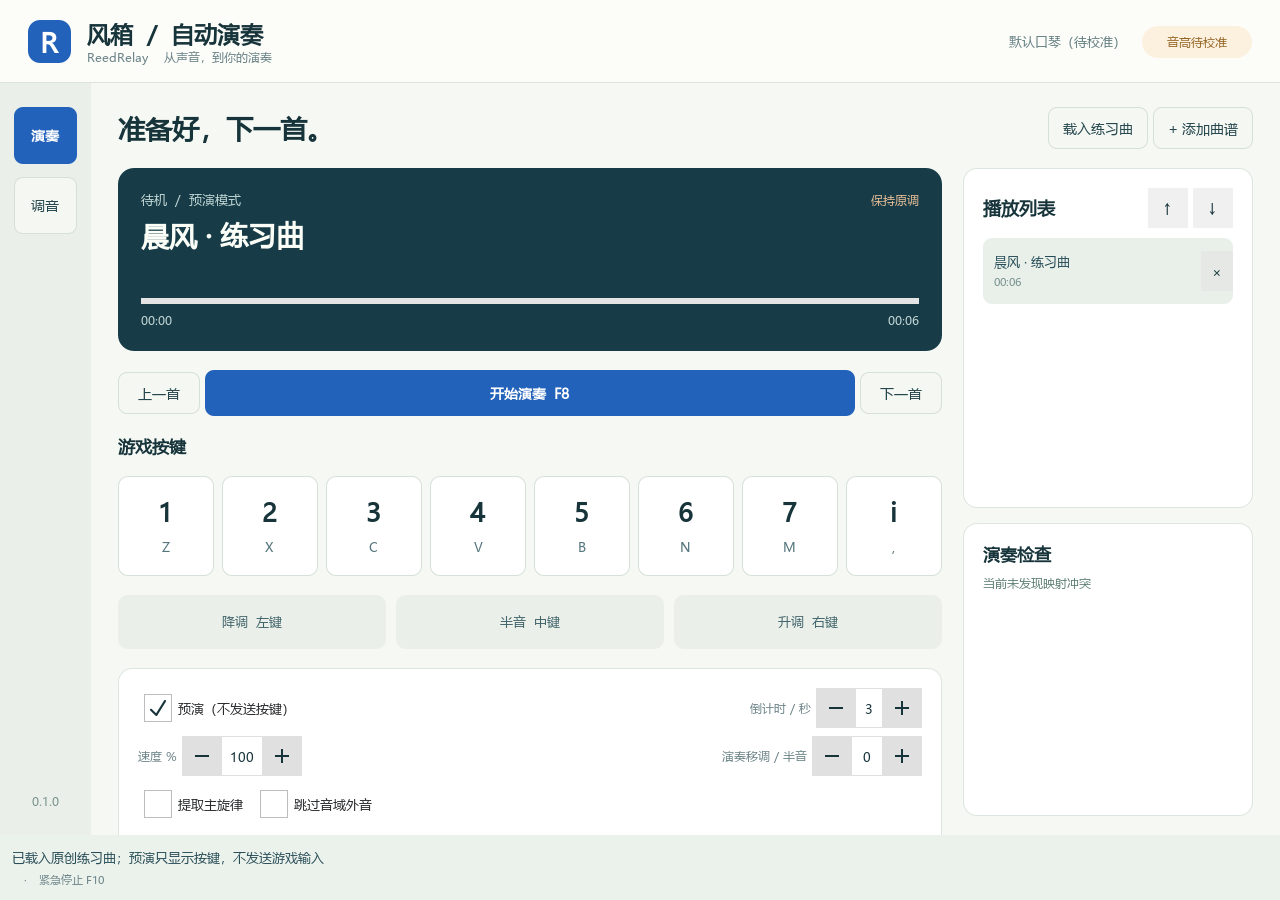
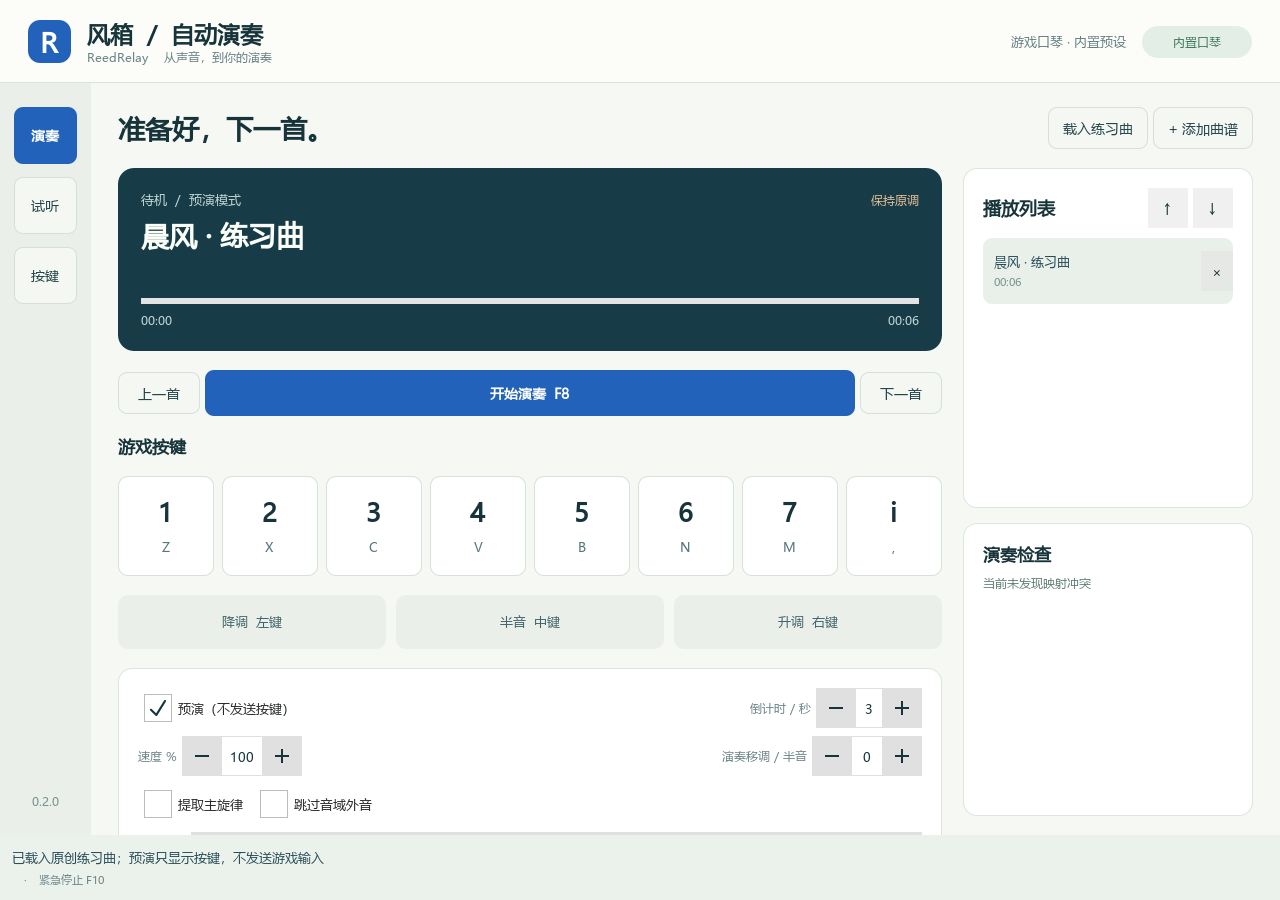
build: deliver 0.2 harmonica audition and binding revision

Changed region(s): [[0.1562, 0.9022, 0.7188, 0.9333], [0.7812, 0.0311, 1.0, 0.0622], [0.0312, 0.2178, 0.0625, 0.2489]]

diff --git a/src/reed_relay/ui/Main.qml b/src/reed_relay/ui/Main.qml
@@ -89,7 +89,7 @@ ApplicationWindow {
                 ActionButton { text: "试听"; primary: root.page === "audition"; implicitWidth: 63; implicitHeight: 57; onClicked: root.page="audition" }
                 ActionButton { text: "按键"; primary: root.page === "settings"; implicitWidth: 63; implicitHeight: 57; onClicked: { root.reloadDraft(); root.page="settings" } }
             }
-            Label { anchors.bottom: parent.bottom; anchors.bottomMargin: 26; anchors.horizontalCenter: parent.horizontalCenter; text: "0.1.0"; color: "#78918e"; font.pixelSize: 12 }
+            Label { anchors.bottom: parent.bottom; anchors.bottomMargin: 26; anchors.horizontalCenter: parent.horizontalCenter; text: "0.2.0"; color: "#78918e"; font.pixelSize: 12 }
         }
         StackLayout {
             Layout.fillWidth:true;Layout.fillHeight:true

diff --git a/src/reed_relay/app.py b/src/reed_relay/app.py
@@ -17,6 +17,7 @@ def run(mode):
     parser = argparse.ArgumentParser()
     parser.add_argument("--screenshot")
     parser.add_argument("--binding-demo", action="store_true", help="显示按键捕获弹层供界面检查")
+    parser.add_argument("--audition-demo", action="store_true", help="静音播放当前曲谱，用于检查实际音频管线")
     parser.add_argument("--page", default="main")
     parser.add_argument("--demo", action="store_true")
     parser.add_argument("--no-hotkeys", action="store_true")
@@ -81,6 +82,9 @@ def run(mode):
         return 1
     if args.binding_demo:
         QTimer.singleShot(250,lambda:backend.beginBinding("note:0","音符 1"))
+    if args.audition_demo:
+        backend.audition.setVolume(0)
+        QTimer.singleShot(100,backend.auditionScore)
     app.aboutToQuit.connect(backend.close)
     if args.screenshot:
         def capture():
@@ -89,11 +93,13 @@ def run(mode):
             try:
                 if not engine.rootObjects()[0].property("pagesReady"):
                     app.exit(3); return
+                if args.audition_demo and (not backend.audition.playing or backend.audition.position <= 0):
+                    app.exit(4); return
                 ok = engine.rootObjects()[0].grabWindow().save(str(destination))
                 app.exit(0 if ok else 2)
             except Exception:
                 app.exit(2)
-        QTimer.singleShot(1200, capture)
+        QTimer.singleShot(2500 if args.audition_demo else 1200, capture)
     return app.exec()
 
 

diff --git a/tests/test_binding_audition.py b/tests/test_binding_audition.py
@@ -89,8 +89,10 @@ def test_registration_and_disk_failure_keep_saved_and_active_profile(rig,monkeyp
     assert b._profile.keys[0]=='Z' and (d/'profile.json').read_bytes()==before
 
 
-def test_pages_load_and_launch_click_does_not_bind_left_mouse(rig):
+@pytest.mark.parametrize("mode",["player","converter"])
+def test_pages_load_and_launch_click_does_not_bind_left_mouse(rig,mode):
     app,b,d=rig
+    b.mode=mode
     b.loadDemo()
     engine=QQmlApplicationEngine()
     engine.rootContext().setContextProperty('bridge',b)
@@ -113,6 +115,14 @@ def test_pages_load_and_launch_click_does_not_bind_left_mouse(rig):
     assert not b.binding.active and b._profile.keys[0]=='J'
     root.setProperty('page','audition');app.processEvents()
     assert root.property('pagesReady') and not warnings
+    if mode == 'converter':
+        root.setProperty('page','main');app.processEvents()
+        preview=next(item for item in visual_items(root.contentItem()) if item.objectName()=='converterAudition')
+        QTest.mouseClick(root,Qt.MouseButton.LeftButton,Qt.KeyboardModifier.NoModifier,preview.mapToScene(preview.boundingRect().center()).toPoint())
+        app.processEvents()
+        assert root.property('page')=='audition'
+        wait_for(app,lambda:b.audition._loaded)
+        assert not warnings,warnings
     root.hide()
 
 

diff --git a/src/reed_relay/__init__.py b/src/reed_relay/__init__.py
@@ -1,3 +1,3 @@
 """ReedRelay: independent score conversion and performance applications."""
 
-__version__ = "0.1.0"
+__version__ = "0.2.0"

diff --git a/docs/USER_GUIDE.md b/docs/USER_GUIDE.md
@@ -5,7 +5,7 @@
 1. 选择音频或拖入文件，可一次选择多首。主旋律优先生成单声部草稿；完整候选保留所有识别音符。
 2. 点击开始转谱。后台依次处理每个文件，可以取消；某首解码失败不会使其余文件停止。完成的每首工程保存在数据目录的 `conversions` 中，主界面显示最近成功的结果。
 3. 在钢琴卷帘或列表点击音符。橙色代表较低的模型分数，该分数不是经过校准的正确概率。时间轴可缩放为 12 / 24 / 48 秒视窗，并拖动下方滑块定位。
-4. 试听原音可比较选中音符附近的片段；勾选循环可反复播放。取消选中后试听全曲。试听曲谱使用合成音，供比较音高与时值。
+4. 试听原音可比较选中音符附近的片段；勾选循环可反复播放。取消选中后试听全曲。点击口琴试听进入共享试听页，用口琴音色比较音高与时值。
 5. 修改起始毫秒、时长和 MIDI 音高；支持新增、删除、等分、合并下一同音高音符、撤销与重做。修改后自动保存，最多保留当前会话 50 步撤销。
 6. 页面下方的当前场景检查可点击定位音域外、重叠和音分偏移等问题。是否可演奏取决于当前场景映射；它不是转写准确率评估。
 7. 保存 JSON 工程可带走原始候选和修改结果；MIDI / 文本简谱导出当前编辑结果。若源音频搬家，点击关联原音重新选取，再保存工程。
@@ -14,64 +14,50 @@
 
 文本简谱使用固定 `1=C4`、升降八度标记和绝对秒数，不改变原始音高。首版不估计 BPM、拍号或调式；工程 `bpm=120` 是参考占位，绝对事件时间不受它影响。微分音/滑音保存在 JSON 附加数据中，常规 MIDI 导出当前离散音符，不导出弯音曲线。
 
-## 调音：建立自己的游戏场景
+## 口琴试听：两个模块均可独立使用
 
-截图只确认了按键标签，没有确认真实音高。出厂模板为 C4–C5，三个修饰为 −12 / +1 / +12 半音；只有确认实际配置后才能启用真实输入。
+打开左侧「试听」，载入曲谱或 MIDI，也可使用当前已打开的曲谱。
 
-### 游戏内连续引导（推荐）
+- 点击「播放 / 继续」生成口琴音频并播放；播放中再次点击暂停。生成过程中该按钮用于取消，取消后旧任务不会重新开播。
+- 拖动进度条定位；调整音量立即生效。速度支持 25%–200%，通过重排音符时间实现，保持音高。改变速度或音色模式会停止当前试听，再次播放时重新生成。
+- 点击时间轴中的音符，然后点击「循环选中音符」；也可填写起点和终点秒数，勾选「循环片段」。点击「恢复全曲」清除选段。
+- 「旋律校对」按曲谱的原始音高、音分和时值，使用稳定口琴音色，支持多声部候选试听。
+- 「游戏效果」应用当前演奏移调、单声部选择、映射和长音选项；有无法演奏的音域或重叠问题时先处理问题列表。已录音区的微小音准与起音变化会被模拟。
+- 试听不会发送游戏按键。启动游戏演奏会停止试听；改绑按键、换曲或关闭程序也会停止相应播放。
 
-两个模块的调音页都可独立完成引导。准备好以后，全程留在游戏内按提示操作即可。
+音色来自五种录音状态的泛音、包络和音高轨迹：普通 C4/D4、低音、半音和高音。正常1第三次不参与建模，其他未录音符从邻近音区推算。原录音没有装进程序，随包提供的是小型合成参数。游戏效果是模拟，超出录音长度的发声保持最后的模型状态，不能等同于每个音都已在游戏中验证。代码仓库提供参数提取脚本 `packaging/analyze_harmonica.py`。
 
-1. 在调音页填写场景名、A4 参考频率和自定义键位。选择「电脑声音」以及游戏实际使用的耳机/扬声器；也可选择麦克风。关闭游戏背景音乐和其他音乐/视频，让单音清晰。
-2. 在「游戏内连续调音」点击「刷新窗口」，选择游戏窗口，选择提示位置（右上角、左上角或下方居中）。使用游戏的窗口化或无边框模式。
-3. 点击「开始游戏内引导」，切回游戏并进入乐器演奏界面。悬浮提示会显示当前步骤、需要按住的键和操作热键；提示窗置顶、鼠标穿透、不接收焦点。
-4. 按提示**长按约 1 秒**。例如先按住 `Z`，看到「完成，请松开按键」后松开；程序稍作等待，然后提示 `X`。稳定音高需连续确认 3 次，按错、声音不稳定或没有声音时会提示并留在当前步骤。长按后的发声时间太短时，可松开重试或改用手动测音。
-5. 基础音结束后，会提示「鼠标左键 + Z」等修饰组合：保持修饰键和音符键同时按住，完成后全部松开。程序用前两个基础音交叉验证各修饰的半音变化，再验证已勾选的复合修饰。默认共 **18 步**；两个复合修饰都关闭时为 **14 步**。
-6. 最后一个音测完并松开后，显示「调音结束」。程序自动保存实测音高、修饰音程和通过验证的组合，并标记已校准；旧场景备份至 `profile.before-calibration.json`。提示 8 秒后自动收起，也可按紧急停止键立即关闭。收起后恢复普通演奏热键，演奏仍需手动启动。
+## 按键与口琴预设
 
-| 引导期间的操作 | 默认热键 | 说明 |
-|---|---|---|
-| 暂停 / 继续 | F8 | 继续后先松开演奏键，再按提示操作 |
-| 重测 | F6 | 返回上一项；刚测完尚未换步时重测当前项，组合按整组重测 |
-| 跳过组合 | F7 | 仅可跳过复合修饰，跳过后禁用该组合；基础音和单个修饰不能跳过 |
-| 取消 | F10 | 丢弃本次测量，保留旧场景；再次按下关闭结束提示 |
+打开「按键」，点击八个音符键、鼠标修饰或控制热键中的任意一项。
 
-以上操作跟随自定义的启停、上一首、下一首和紧急停止热键；悬浮窗显示实际绑定。引导使用开始时界面填写的 A4、键位和热键，无需提前保存。
+1. 出现「绑定」弹层后，按下新键；绑定鼠标时，在弹层的提示区域点击左、中、右键。
+2. 控制热键支持 Ctrl/Alt/Shift/Win 与主键组合；音符/修饰按单键绑定。F12 为系统保留热键，不接受绑定。
+3. 成功后立即保存并提示结果。启动绑定的那次点击不会被当成左键；弹层只在绑定期间捕获输入。
+4. 冲突、全局热键注册失败或保存失败时保留原配置并显示原因，可直接换键重试。Esc、取消按钮、失焦或超时退出绑定。绑定期间暂停本程序的演奏热键。
 
-切出游戏时停止接收测音结果；切回后松开按键即可继续。窗口关闭、采集设备中断、热键失效或保存失败时结束引导并保留原场景。程序只读取已配置演奏键的按下状态，由你自己在游戏内发音。中途取消后不会保存部分测量。
+默认普通音为 C4、D4、E4、F4、G4、A4、B4、C5，对应 Z/X/C/V/B/N/M/逗号。鼠标左、中、右分别为降八度、升半音、升八度；按住生效，松开恢复。该内置预设依据实录和音阶推算，可以直接进入演奏，无需再走调音向导。
 
-独占全屏可能遮挡普通桌面悬浮窗，此时请切换无边框/窗口模式。已经验证本机 Windows 下置顶、鼠标穿透和不抢焦点；尚需在实际游戏中确认提示可见性与声音识别。若同时打开两个模块，可能遇到热键占用；引导只需启动其中一个模块。
+「使用内置音高」恢复内置音高与修饰关系，保留已经绑定的键盘、鼠标和控制热键。「高级音高映射」可设置其他乐器的实际 MIDI 音高、修饰音程、参考 A4 频率及组合，然后点击「保存映射」。两个复合修饰按音阶推断；若游戏不支持，可分别关闭。场景可以导入/导出。
 
-### 手动测音与填写
-
-1. 打开调音页，命名场景。A4 默认 440 Hz，可在 400–480 Hz 调整。
-2. 测音来源默认「电脑声音」，选择游戏实际使用的耳机或扬声器，点击「开始测音」。回到游戏分别发出 8 个基础音；耳机模式也能直接采集，无需外放。也可切换为「麦克风」使用 Windows 默认录音设备，或点击「分析 WAV 单音」读取 16 位 PCM WAV（最多分析前 30 秒）。
-3. 查看输入音量、音名、MIDI 数字与音分偏差，将检测到的 MIDI 数字手动填入音符键下方。C4=60、D4=62、E4=64、F4=65、G4=67、A4=69、B4=71、C5=72。每列可播放参考音比较；音区按钮统一增减八度。
-4. 分别按住三个鼠标修饰键测音，填写相对基础音改变的半音数。再测量“降调+半音”和“升调+半音”，游戏支持时启用组合。
-5. 改成自己的键位与全局热键。演奏键支持字母、数字、功能键、方向键以及 `MOUSE_LEFT / MOUSE_MIDDLE / MOUSE_RIGHT` 等；全局热键支持 Ctrl/Alt/Shift/Win 组合。
-6. 勾选已核对音高和组合，保存并应用场景。导出场景只导出已保存值；下次启动自动载入。不同场景可分别导出，再导入切换。
-
-手动测音仪按已保存的 A4 频率计算，修改参考值后先保存。连续引导使用开始时填写的 A4。软件改变的是识别参照和输入映射，无法直接改变游戏音源的调律；频率不同会给出提示。
-
-### 电脑声音采集说明
-
-- 使用 WASAPI 回环采集所选输出设备上的所有声音，当前没有按游戏进程隔离。测音时关闭游戏背景音乐，并暂停其他音乐/视频，每次弹奏一个稳定音。
-- 设备列表优先选择系统默认输出；如果 Windows 音量混合器为游戏指定了其他耳机/扬声器，请选择游戏实际输出的那个设备。
-- 点击「开始测音」或「开始游戏内引导」才打开采集；停止、引导结束/取消、切换来源/设备、刷新设备或关闭程序会释放采集。电脑声音模式不启用麦克风，不保存或上传采集音频。
-- 插拔耳机或改变 Windows 默认输出后，点击「刷新设备」重新选择，再开始测音。静音或没有收到声音时会清除旧音高并显示提示。
-- 播放参考音会先停止测音，避免把程序自己的参考音当成游戏音高。比较完成后需再次点击开始测音。
-- 声音较弱时检查所选设备、游戏音量与 Windows 音量；有音量但没有稳定音高时减少伴奏和同时发声的音符。
-- 设备不支持回环、处于独占使用状态或受保护内容无法采集时，可切换麦克风或导入 WAV 单音录音。
+旧的未校准默认模板会迁移为内置预设；自定义音高、按键和已保存的校准值保留。配置中的 `calibrated` 仅用于兼容旧版本，不再作为开始演奏的门槛；`pitch_source` 区分采样推断、自定义与旧实测配置。高级映射改变的是曲谱到按键的对应关系，无法直接改变游戏音源本身的调律。
 
 ## 风箱：预演与游戏演奏
 
 1. 添加 JSON 或 MIDI 曲谱；也可直接载入原创练习曲。播放列表可用上下箭头排序。
 2. 默认预演不发送系统输入。检查键位高亮、曲目进度与演奏检查列表。
 3. 音域外音和重叠音默认阻止演奏。可手工校对，或显式选择提取主旋律、跳过音域外音。演奏移调默认为 0，所有演奏选项都不会修改原谱。
-4. 刷新并选择游戏窗口，关闭预演。热键成功注册、场景确认校准、曲谱检查通过后可以开始。
+4. 刷新并选择游戏窗口，关闭预演。热键成功注册、曲谱检查通过后可以开始。
 5. 进入游戏演奏界面，按 F8。默认有 3 秒准备时间；F6/F7 切歌，F10 紧急停止。切歌默认停止，勾选“演奏中切歌后自动继续”才从新曲开头重新开始。
 
 鼠标修饰先按下，音符随后按下；换音和停止会按顺序释放。游戏窗口失焦立即停止，需再次启动。实际输入使用 Windows SendInput；游戏可能受权限级别、输入处理方式或自身限制影响，不保证所有游戏都接受。
+
+**单音与长音**：用户确认游戏口琴按下即刻发声，连续切换音符不会累积气息问题。因此不添加统一起音提前量，也不安排全曲换气。仅单个音实际持续超过约三秒时提示可能不稳。
+
+- 「保留长按」为默认，保持该音的原时值，游戏可能出现原生气息抖动。
+- 「分段重奏」将过长单音分成实际不超过 2.6 秒的小段，会再次触发起音，原谱不被改写。
+- 「同音松键间隔」可设 0–150 ms；默认35 ms是可调整的演奏策略，不是实录测出的最小响应值。只在同音紧邻重按时提前结束前音，下一音仍按原来的节拍开始。不同音连续切换不加此间隔；设0保持原始交接。
+- 速度变化后按实际持续时间判断长音。例如四秒的谱面长音以200%速度演奏，实际两秒，不分段。
 
 速度、准备时间、移调与简化选项会保存。每次启动仍默认预演，目标游戏窗口需重新选择，避免重启后把按键发送给错误窗口。
 
@@ -82,17 +68,17 @@
 | 文件/目录 | 用途 |
 |---|---|
 | `profile.json` | 当前已保存场景 |
-| `profile.before-calibration.json` | 最近一次完整引导保存前的场景备份，可通过「导入场景」恢复 |
+| `profile.before-calibration.json` | 旧版本留下的场景备份，可通过「导入场景」恢复 |
 | `playlist.json` | 曲谱文件路径列表 |
 | `preferences.json` | 演奏选项 |
 | `conversions/` | 每首成功转换的完整工程 |
 | `autosave.reedscore.json` | 最近编辑的恢复工程 |
-| `audition_*.wav` | 临时曲谱试听音频 |
+| `harmonica_*.wav` | 临时口琴试听音频，正常关闭时清理本次会话创建的文件 |
 | `startup-player.log` / `startup-converter.log` | 便携程序启动失败时的诊断 |
 
 - 热键注册失败：查看底栏信息，改用未被其他程序占用的组合。Windows 保留 F12，不能使用。真实演奏会等待热键就绪。
-- 音高不对：先调音，再检查源音符；不要默认将 C4–C5 模板当作游戏实测值。
-- 电脑声音没有设备或启动失败：连接耳机/扬声器后刷新；源码安装运行 `setup.ps1` 更新 PyAudioWPatch 依赖。电脑声音组件随两个独立包一同提供。
+- 音高不对：先用旋律校对试听检查源谱，再检查当前乐器预设；不同游戏/乐器可编辑高级映射或导入对应场景。
+- 试听无声：检查试听页音量、Windows音量混合器和当前默认输出设备。试听使用系统默认音频输出，界面不再要求录音设备或调音。
 - 原音找不到：关联原音，再保存工程。曲谱文件不会嵌入原音频。
 - 转谱依赖缺失：重新运行 `setup.ps1 -Module all`。ONNX 安装中缺少 TensorFlow/CoreML/TFLite 的提示不代表 ONNX 不可用。
 - 找不到 Python：指定 `-PythonPath`；不要使用尚未在本项目支持范围内的 Python 3.14。
@@ -108,6 +94,10 @@
 .\.venv\Scripts\python.exe -m reed_relay.converter.transcribe 'input.mp3' 'output.reedscore.json' --all-notes
 # 便携听谱也可转换，出错时保存 output.reedscore.json.error.txt
 .\dist\ReedRelay-Converter\ReedRelay-Converter.exe --transcribe 'input.mp3' --output 'output.reedscore.json'
+
+# 两个独立包均能生成口琴试听 WAV
+.\dist\ReedRelay-Player\ReedRelay-Player.exe --render-audition '曲谱.reedscore.json' --output '口琴试听.wav' --audition-speed 1.25
+# --audition-mode game 使用游戏音色模型；命令行渲染不应用 GUI 中的移调/长音配置
 
 # 可选硬件自检：播放 1.5 秒低音量 A4，采集默认输出并保存数值诊断（不保存录音）
 .\dist\ReedRelay-Player\ReedRelay-Player.exe --check-loopback --output 'loopback-check.json'

diff --git a/README.md b/README.md
@@ -8,9 +8,11 @@
 | 本地 Basic Pitch ONNX 推断，全曲处理 | 全局启停、上一首、下一首、紧急停止 |
 | 原始候选保留、主旋律草稿、钢琴卷帘校对 | 键盘与鼠标长按映射、播放列表、预演 |
 | 原音/曲谱试听、增删拆合、撤销与自动保存 | 目标窗口守卫、停止时释放按键 |
-| JSON / MIDI / 固定调简谱导出 | 电脑声音/麦克风/录音调音、自定义场景配置 |
+| JSON / MIDI / 固定调简谱导出 | 内置口琴音高、点击绑定、自定义场景配置 |
 
 两者可分别安装和启动，通过 `.reedscore.json` 交换结果。风箱不加载转谱模型；听谱无需启动游戏。
+
+**0.2 新增**：两个模块都有口琴曲谱试听，支持暂停、定位、循环与保持音高的变速；键位点击后直接捕获并保存。内置口琴预设替代调音流程，原调音页和引导入口已移除。连续换音不安排换气，单个长音可保留或选择分段重奏。
 
 **原调与准确性**：默认不移调或自动折叠八度；保留完整原始候选与绝对时间。混音歌曲的自动识别可能错音、漏音或混入伴奏，需要试听校对。“主旋律”是可编辑的单声部草稿，不保证等同于人声旋律。单音游戏乐器无法完整复现和弦或连续滑音，软件会列出冲突与音域问题。
 
@@ -18,8 +20,8 @@
 
 ![风箱](docs/screenshots/player.png)
 ![听谱](docs/screenshots/converter.png)
-![调音](docs/screenshots/tuning.png)
-![游戏内调音引导](docs/screenshots/calibration-overlay.png)
+![口琴试听](docs/screenshots/audition.png)
+![点击绑定](docs/screenshots/binding.png)
 
 截图来自实际运行程序，展示项目原创练习曲。
 
@@ -49,7 +51,7 @@ Windows 10/11，64 位 Python 3.12 推荐（支持范围 3.10–3.13；当前验
 ## 三步使用
 
 1. **听谱**：选择或拖入音频，选择完整候选或主旋律草稿，开始转谱。点击音符试听和修改，保存 `.reedscore.json`。原始候选可恢复；页面下方包含编辑、问题定位和导出操作，可滚动查看。
-2. **调音**：在任一模块的调音页选择声音设备和游戏窗口，点击「开始游戏内引导」。回游戏跟随悬浮提示长按、松开，逐项测量基础音与修饰效果，完成后自动备份并保存。也可手动测音填写。出厂 C4–C5、−12 / +1 / +12 只是待校准模板。
+2. **试听与按键**：打开「试听」用口琴检查曲谱；打开「按键」，点击键位后直接按下新键即可保存。内置 C4–C5、−12 / +1 / +12 预设来自录音与音阶推断，可直接使用；其他乐器可导入场景或编辑高级映射。
 3. **风箱**：添加曲谱，先预演并处理问题；选择游戏窗口，关闭预演，回到游戏按 F8 开始。停止和失焦会释放程序按下的按键。
 
 | 默认操作 | 按键 |
@@ -62,11 +64,11 @@ Windows 10/11，64 位 Python 3.12 推荐（支持范围 3.10–3.13；当前验
 
 这些键位都可修改，热键支持 `CTRL+F8` 等组合。F12 是 Windows 调试器保留热键，不可用作全局热键。
 
-**直接用游戏声音调音**：调音页选择「电脑声音」，选择游戏实际使用的耳机或扬声器，点击「开始测音」，回到游戏逐个发音即可。支持 Windows WASAPI 回环，无需麦克风；显示实时音量、音名、MIDI 数字与音分偏差。当前采集所选设备上的混合声音，测音时请暂停其他音乐/视频；不会保存或上传录音。
+**口琴试听**：「旋律校对」使用稳定音准与采样推算的口琴音色；「游戏效果」应用演奏映射和长音选项，模拟起音、音准和持续发声变化。未录音符由邻近音区推算；试听不代表每个游戏音都已经实测。
 
-**不切屏连续调音**：「开始游戏内引导」会显示置顶、鼠标穿透且不抢焦点的提示窗。默认 18 步，F8 暂停、F6 重测、F7 跳过可选组合、F10 取消，跟随自定义热键。失焦暂停接收测音，完成后自动保存，失败或取消保留旧场景。使用无边框/窗口模式；独占全屏可能遮挡提示，实际游戏兼容性仍需现场确认。
+**单音时长**：按键即刻发声，连续切换音符不会累积气息问题，不插入统一换气间隔。单音实际持续超过约三秒时提示可能抖动；默认保留时值，可选分段重奏会重新起音。同音重按间隔可调，后音起始节拍不变。
 
-详细操作、调音步骤、数据位置及排障见 **[使用手册](docs/USER_GUIDE.md)**。
+详细操作、音色来源、数据位置及排障见 **[使用手册](docs/USER_GUIDE.md)**。
 
 ## 开发、验证与打包
 
@@ -80,11 +82,11 @@ Windows 10/11，64 位 Python 3.12 推荐（支持范围 3.10–3.13；当前验
 
 独立程序输出到 `dist/ReedRelay-Player/` 与 `dist/ReedRelay-Converter/`，各目录中 EXE 与 `_internal` 必须一起保留。可只打包其中一个模块。便携包启动不需要安装 Python，也不需要另一个模块。
 
-当前验证包含已知音高/时间、60 秒后音符对齐、编辑恢复、按键释放、真实 Windows 热键注册、样例 MP3 全曲转写、两个独立 EXE 启动及转换。详见 [阶段记录](docs/PROGRESS.md)。真实游戏输入兼容性及麦克风硬件需在使用场景中验证。
+当前验证包含已知音高/时间、60 秒后音符对齐、编辑恢复、按键释放、按键捕获与保存回滚、原调变速试听、样例 MP3 全曲转写、独立 EXE 启动及转换。详见 [阶段记录](docs/PROGRESS.md)。实际游戏输入与音色效果仍需在游戏会话中确认。
 
 ## 文档与范围
 
 - [实施方案](design/方案.md) · [曲谱格式](docs/FORMAT.md) · [第三方组件](docs/THIRD_PARTY.md)
 - 首版不包含 Demucs 声部分离、MusicXML/PDF 排版、自动拍号/调式识别。
-- 本地样例音频与派生曲谱、用户配置、模型和构建产物不提交 Git。
+- 本地样例音频与派生曲谱、用户配置、转写模型和构建产物不提交 Git；仓库内含从干净录音提取的口琴合成参数及提取脚本，不含原录音。
 - 项目暂未指定开源许可证；依赖保留各自许可证。当前提供源码和本地可运行构建，尚未发布公共二进制 GitHub Release。

diff --git a/docs/PROGRESS.md b/docs/PROGRESS.md
@@ -18,8 +18,14 @@
 - 按键通过捕获弹层绑定，音符与修饰支持鼠标，控制热键支持键盘组合。点击启动不被误识别；冲突、注册失败、写盘失败均保持旧配置，Esc/超时/失焦恢复原热键。
 - 全量 **65 项测试通过**；新增真实 QML 点击与键盘事件测试、音频生成/暂停/定位/循环、长音计划试听、取消后旧任务不能重新开播。加载任一页面失败时截图检查直接报错，不接受空白页面。
 - 已检查两个模块试听页、按键页和捕获弹层的实际渲染。独立包和最终文档将在交付阶段更新。
+- 界面阶段已推送：`27adb3c`；方案、核心、界面三个提交的 GitHub Actions 均已通过。
+- **0.2.0 交付完成**：两个独立 EXE 已重建；全量 **66 项测试通过**，覆盖听谱和风箱的实际 QML 点击绑定及试听入口。第三方 Resampy 仍有一条已知的 `pkg_resources` 弃用提示。
+- 打包检查通过：八张页面/交互截图、听谱完整转写 6.6 秒原创测试音得到 16 个音符、两个 EXE 各自生成非静音口琴 WAV，以及两个 EXE 的 Qt 音频播放状态和时间推进。实际播放检查使用静音音量，避免检查时打扰用户。
+- 本地样例的 912 音符草稿已完整合成口琴试听：源曲谱与生成音频均为 **165.083 秒**，本机合成约 2.65 秒。该项证明全曲时间线与生成流程，不代表自动转写已逐音校准。
+- README、使用手册、格式文档和实际界面截图已更新。风箱继续独立运行，不包含转谱模型及相关重型依赖；样例录音、派生曲谱和试听 WAV 保留本地。
+- 现场边界：未向真实游戏发送测试输入；未录音符和部分音色由已有采样推算，实际游戏音色、同音松键间隔与长音重奏效果仍需游戏内试听确认。
 
-## 游戏内调音引导（新增阶段）
+## 游戏内调音引导（历史阶段，0.2 已移除入口）
 
 - 状态机已完成：默认 18 步（基础音 8 步、修饰交叉验证 6 步、组合验证 4 步），关闭组合时 14 步。支持稳定测音、松键换步、暂停、重测、可选组合跳过；全程成功前不改动原场景。
 - 状态机阶段已提交并推送：`09f281a`。

diff --git a/docs/FORMAT.md b/docs/FORMAT.md
@@ -6,6 +6,8 @@
 
 场景 JSON 保存 8 个基础音高及键位、3 个修饰输入及半音值、允许的组合、A4 参考频率和 4 个全局热键。鼠标输入使用 `MOUSE_LEFT / MOUSE_MIDDLE / MOUSE_RIGHT`；普通键写 `Z`、`,`、`F8` 等。热键支持 `CTRL+ALT+F8` 等组合。
 
-出厂模板的 C4–C5 与 -12/+1/+12 半音仅为待校准初值。请用测音或参考音逐项检查，在界面确认校准后再启用真实游戏输入。原曲谱始终保留；演奏移调、主旋律提取与跳过音域外音须显式开启。
+内置口琴的 C4–C5 与 -12/+1/+12 半音来自现有实录与音阶推断，可直接使用。`pitch_source` 为 `sample-inferred`、`custom` 或 `measured`；缺少该字段的旧文件自动按原配置迁移。`calibrated` 保留兼容，不再限制真实游戏输入。高级音高编辑会将来源改为 `custom`。原曲谱始终保留；演奏移调、主旋律提取与跳过音域外音须显式开启。
 
 `examples/晨风.reedscore.json` 是项目自制短旋律，供独立启动与预演使用。本地样例 MP3 及其派生内容不提交仓库。
+
+演奏偏好中的 `long_policy` 为 `hold` 或 `rearticulate`，`repeat_gap` 为实际毫秒。同音间隔和长音分段仅改变临时演奏计划，不覆盖曲谱；变化后的事件起点仍按源时间轴调度。试听渲染速度只缩放时间，不改变频率。

diff --git a/docs/THIRD_PARTY.md b/docs/THIRD_PARTY.md
@@ -6,8 +6,8 @@ ReedRelay uses these projects through their published packages. The project itse
 |---|---|---|
 | PySide6 / Qt | Desktop UI and audio preview | https://doc.qt.io/qtforpython-6/licenses.html |
 | NumPy | Signal analysis and synthesis | https://numpy.org/doc/stable/license.html |
-| SoundDevice / PortAudio | Microphone and reference tone | https://github.com/spatialaudio/python-sounddevice |
-| PyAudioWPatch / PortAudio | Windows WASAPI output loopback for tuning | https://github.com/s0d3s/PyAudioWPatch |
+| SoundDevice / PortAudio | Legacy audio helpers and hardware checks | https://github.com/spatialaudio/python-sounddevice |
+| PyAudioWPatch / PortAudio | Optional Windows WASAPI loopback diagnostics | https://github.com/s0d3s/PyAudioWPatch |
 | Mido | MIDI import/export | https://github.com/mido/mido |
 | Basic Pitch 0.4.0 | Audio-to-note model and post-processing (Apache-2.0) | https://github.com/spotify/basic-pitch |
 | ONNX Runtime | Local model inference | https://github.com/microsoft/onnxruntime |
